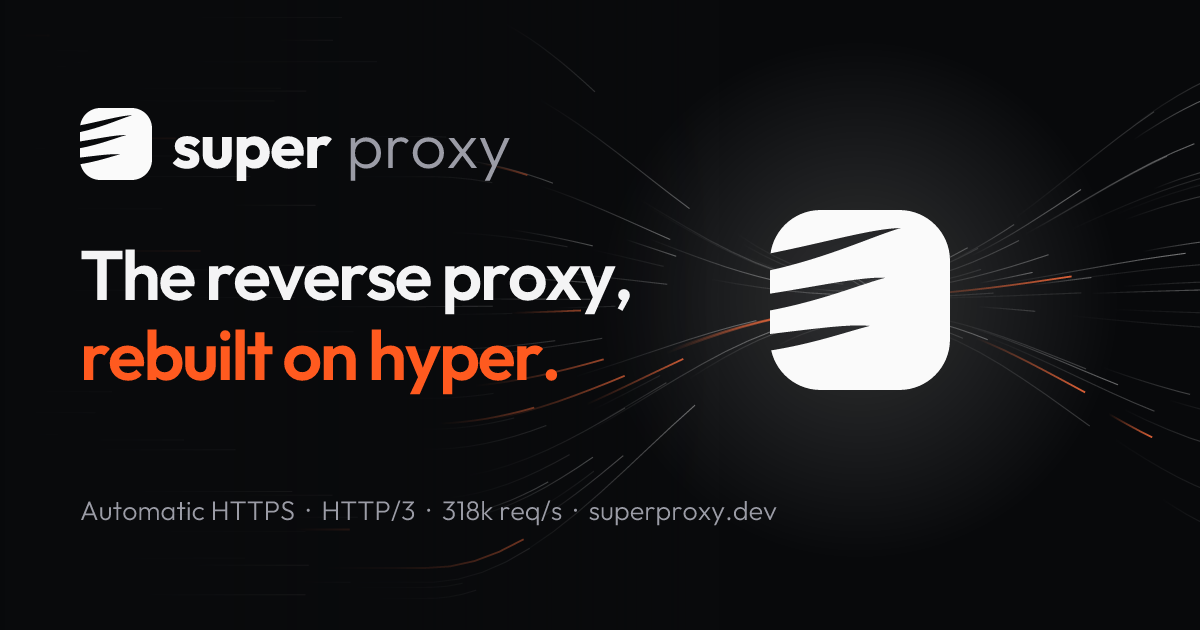
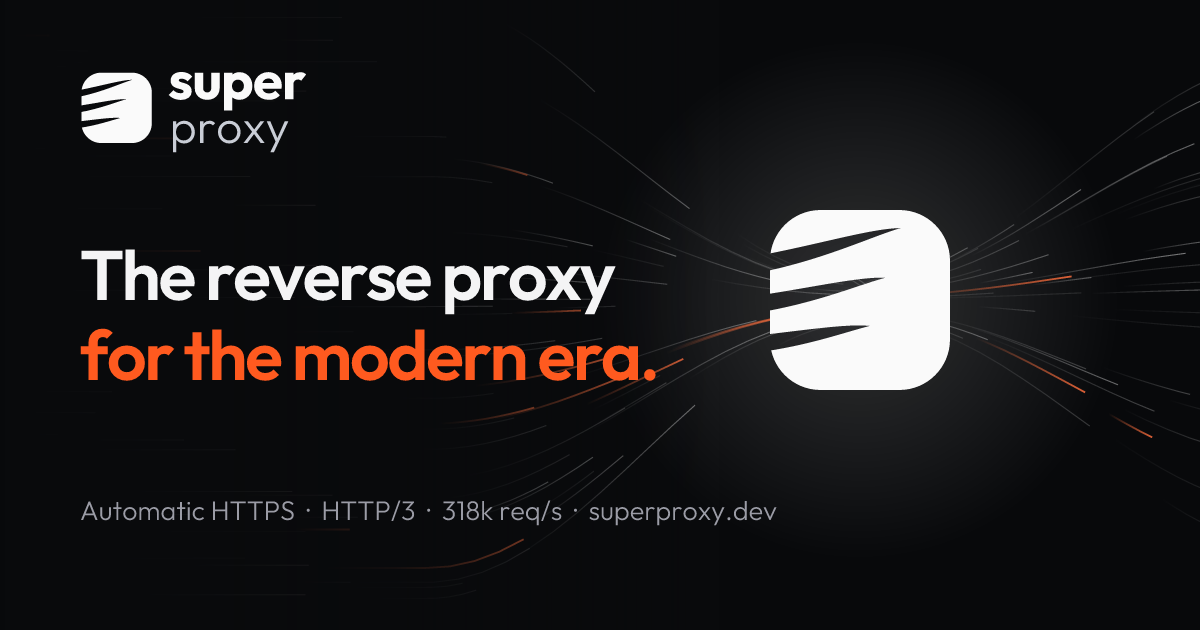
docs: the home page's lockup, headline and Super's directory
The README's lockup (super over proxy) in the navigation and the share image, without the hero's
mark and badge; "The reverse proxy for the modern era"; streams through the headline, blended
across it; /etc/superconfig in the install lines and the site's Dockerfile; assets by relative
paths, so the page opens from a file too.

Changed region(s): [[0.0617, 0.0905, 0.4317, 0.3016], [0.0617, 0.5127, 0.555, 0.6333], [0.4933, 0.4524, 0.5242, 0.4825]]

diff --git a/site/public/index.html b/site/public/index.html
@@ -3,7 +3,7 @@
 <head>
   <meta charset="utf-8">
   <meta name="viewport" content="width=device-width, initial-scale=1">
-  <title>Super: the batteries-included reverse proxy, built on hyper</title>
+  <title>Super: the reverse proxy for the modern era</title>
   <meta name="description" content="Super is a fast reverse proxy and load balancer with automatic HTTPS, HTTP/3, plugins and a live admin UI. Proksi's configuration, rebuilt on hyper: 3.7× the requests per CPU.">
   <link rel="canonical" href="https://superproxy.dev/">
   <meta name="theme-color" content="#08090b">
@@ -12,20 +12,20 @@
   <meta property="og:type" content="website">
   <meta property="og:site_name" content="Super">
   <meta property="og:url" content="https://superproxy.dev/">
-  <meta property="og:title" content="Super: the batteries-included reverse proxy, built on hyper">
+  <meta property="og:title" content="Super: the reverse proxy for the modern era">
   <meta property="og:description" content="Automatic HTTPS, load balancing, HTTP/3, plugins and a live admin UI in one small config file. 3.7× the requests per CPU of Proksi.">
   <meta property="og:image" content="https://superproxy.dev/og.png">
   <meta property="og:image:width" content="1200">
   <meta property="og:image:height" content="630">
   <meta property="og:image:alt" content="Super proxy: requests streaming through the Super wing">
   <meta name="twitter:card" content="summary_large_image">
-  <meta name="twitter:title" content="Super: the batteries-included reverse proxy, built on hyper">
+  <meta name="twitter:title" content="Super: the reverse proxy for the modern era">
   <meta name="twitter:description" content="Automatic HTTPS, load balancing, HTTP/3, plugins and a live admin UI. 3.7× the requests per CPU of Proksi.">
   <meta name="twitter:image" content="https://superproxy.dev/og.png">
 
-  <link rel="icon" href="/favicon.svg" type="image/svg+xml">
-  <link rel="apple-touch-icon" href="/apple-touch-icon.png">
-  <link rel="preload" href="/fonts/outfit.woff2" as="font" type="font/woff2" crossorigin>
+  <link rel="icon" href="favicon.svg" type="image/svg+xml">
+  <link rel="apple-touch-icon" href="apple-touch-icon.png">
+  <link rel="preload" href="fonts/outfit.woff2" as="font" type="font/woff2" crossorigin>
 
   <script type="application/ld+json">
   {
@@ -48,7 +48,7 @@
   <style>
     @font-face {
       font-family: "Outfit";
-      src: url("/fonts/outfit.woff2") format("woff2");
+      src: url("fonts/outfit.woff2") format("woff2");
       font-weight: 100 900;
       font-display: swap;
     }
@@ -90,9 +90,8 @@
     }
     nav.scrolled { border-bottom-color: var(--line); }
     nav .wrap { display: flex; align-items: center; justify-content: space-between; height: 64px; }
-    .brand { display: flex; align-items: center; gap: 10px; text-decoration: none; font-weight: 700; font-size: 20px; letter-spacing: -0.02em; }
-    .brand small { color: var(--muted); font-weight: 300; }
-    .brand svg { width: 28px; height: 28px; }
+    .brand { display: flex; align-items: center; }
+    .brand img { display: block; height: 32px; width: auto; }
     nav ul { display: flex; gap: 26px; list-style: none; margin: 0; padding: 0; font-size: 15px; }
     nav ul a { color: var(--muted); text-decoration: none; transition: color .2s; }
     nav ul a:hover { color: var(--text); }
@@ -108,20 +107,8 @@
         linear-gradient(to bottom, transparent 70%, var(--bg));
     }
     .hero .wrap { position: relative; z-index: 1; text-align: center; }
-    .hero .mark {
-      display: block; width: 128px; height: 128px; margin: 22px auto 36px;
-      filter: drop-shadow(0 0 42px rgba(255, 255, 255, .16));
-      animation: rise 1.1s cubic-bezier(.2, .8, .2, 1) both;
-    }
-    .eyebrow {
-      display: inline-flex; align-items: center; gap: 8px;
-      padding: 6px 14px; border: 1px solid var(--line); border-radius: 999px;
-      color: var(--muted); font-size: 14px; background: rgba(15, 17, 21, .7);
-      text-decoration: none;
-    }
-    .eyebrow b { color: var(--accent); font-weight: 600; }
     h1 {
-      margin: 22px auto 18px; max-width: 15ch;
+      margin: 64px auto 18px; max-width: 15ch;
       font-size: clamp(42px, 7vw, 82px); line-height: 1.02; letter-spacing: -0.045em; font-weight: 700;
       animation: rise 1.1s .08s cubic-bezier(.2, .8, .2, 1) both;
     }
@@ -258,21 +245,9 @@
   </style>
 </head>
 <body>
-  <svg width="0" height="0" style="position:absolute" aria-hidden="true">
-    <defs>
-      <mask id="wing" maskUnits="userSpaceOnUse" x="-4" y="-4" width="72" height="72">
-        <rect x="-4" y="-4" width="72" height="72" fill="#fff"/>
-        <path fill="#000" d="M0 -3C25.2 -3 44.8 -5.72 56 -3.92C44.8 -2.72 25.2 3 0 3A3 3 0 0 1 0 -3Z" transform="translate(-8 20) rotate(-10)"/>
-        <path fill="#000" d="M0 -3C22.5 -3 40 -4.8 50 -3C40 -1.8 22.5 3 0 3A3 3 0 0 1 0 -3Z" transform="translate(-8 34) rotate(-8)"/>
-        <path fill="#000" d="M0 -3C19.8 -3 35.2 -4 44 -2.2C35.2 -1 19.8 3 0 3A3 3 0 0 1 0 -3Z" transform="translate(-8 48) rotate(-6)"/>
-      </mask>
-      <symbol id="logo" viewBox="0 0 64 64"><g mask="url(#wing)"><rect width="64" height="64" rx="18" fill="#fafafa"/></g></symbol>
-    </defs>
-  </svg>
-
   <nav id="top" aria-label="Main">
     <div class="wrap">
-      <a class="brand" href="/" aria-label="Super, home"><svg aria-hidden="true"><use href="#logo"/></svg>super <small>proxy</small></a>
+      <a class="brand" href="/"><img src="logo-wordmark.svg" alt="Super proxy" width="84" height="32"></a>
       <ul>
         <li class="hide-small"><a href="#why">Why</a></li>
         <li class="hide-small"><a href="#speed">Benchmarks</a></li>
@@ -286,16 +261,14 @@
   <header class="hero">
     <canvas id="streams" aria-hidden="true"></canvas>
     <div class="wrap">
-      <svg class="mark" role="img" aria-label="The Super wing"><use href="#logo"/></svg>
-      <a class="eyebrow" href="#conformance"><b>New</b> HTTP/3, websockets over HTTP/2, and 146/146 on h2spec</a>
-      <h1>The reverse proxy, <em>rebuilt on hyper</em></h1>
+      <h1>The reverse proxy for the <em>modern era</em></h1>
       <p class="lede">Automatic HTTPS, load balancing, plugins, HTTP/3 and a live admin UI, configured in one small file. Super runs Proksi's configuration as it is, on a core that serves 3.7× the requests per CPU.</p>
       <div class="actions">
         <a class="button primary" href="https://docs.superproxy.dev">Get started</a>
         <a class="button ghost" href="https://github.com/luizfonseca/super">View on GitHub</a>
       </div>
       <div class="install">
-        <code id="install"><b>docker run</b> -p 80:80 -p 443:443 -v ./config:/etc/proksi luizfonseca/super</code>
+        <code id="install"><b>docker run</b> -p 80:80 -p 443:443 -v ./config:/etc/superconfig luizfonseca/super</code>
         <button type="button" data-copy="install">Copy</button>
       </div>
     </div>
@@ -439,7 +412,7 @@
         <h2>Running in a minute.</h2>
         <p class="intro">Write a <code>config.hcl</code>, then start Super with Docker, a single binary, or cargo.</p>
         <pre><code><span class="c"># Docker</span>
-docker run -d -p 80:80 -p 443:443 -v ./config:/etc/proksi luizfonseca/super
+docker run -d -p 80:80 -p 443:443 -v ./config:/etc/superconfig luizfonseca/super
 
 <span class="c"># Or the binary from GitHub's releases, then</span>
 super -c ./config.hcl</code></pre>
@@ -486,19 +459,19 @@ super -c ./config.hcl</code></pre>
     }, { threshold: 0.18 });
     for (const element of document.querySelectorAll(".reveal")) reveal.observe(element);
 
-    // Requests streaming through the wing: from clients on the left, squeezed through the proxy
+    // Requests streaming through: from clients on the left, squeezed through the proxy
     // in the middle, out to upstreams on the right
     const canvas = document.getElementById("streams");
     const context = canvas.getContext("2d");
     const still = matchMedia("(prefers-reduced-motion: reduce)").matches;
-    const mark = document.querySelector(".hero .mark");
+    const headline = document.querySelector(".hero h1");
     let width = 0, height = 0, centerX = 0, centerY = 0, streaks = [], running = true;
 
     function resize() {
       const ratio = Math.min(devicePixelRatio || 1, 2);
       width = canvas.clientWidth; height = canvas.clientHeight;
-      // Through the wing: the mark's middle, in the canvas
-      const box = mark.getBoundingClientRect(), frame = canvas.getBoundingClientRect();
+      // Through the headline's middle, in the canvas
+      const box = headline.getBoundingClientRect(), frame = canvas.getBoundingClientRect();
       centerX = box.left - frame.left + box.width / 2;
       centerY = box.top - frame.top + box.height / 2;
       canvas.width = width * ratio; canvas.height = height * ratio;
@@ -524,7 +497,8 @@ super -c ./config.hcl</code></pre>
       const reach = Math.max(width * 0.32, 220);
       const t = Math.max(-1, Math.min(1, (x - centerX) / reach));
       const pinch = Math.cos(t * Math.PI / 2) ** 2;           // 1 in the middle, 0 at the edges
-      const from = x < centerX ? s.lane : s.out;
+      const mix = 0.5 + 0.5 * Math.sin(t * Math.PI / 2);      // from its lane to its upstream's
+      const from = s.lane * (1 - mix) + s.out * mix;
       return from * (1 - pinch * 0.92);
     }
 
